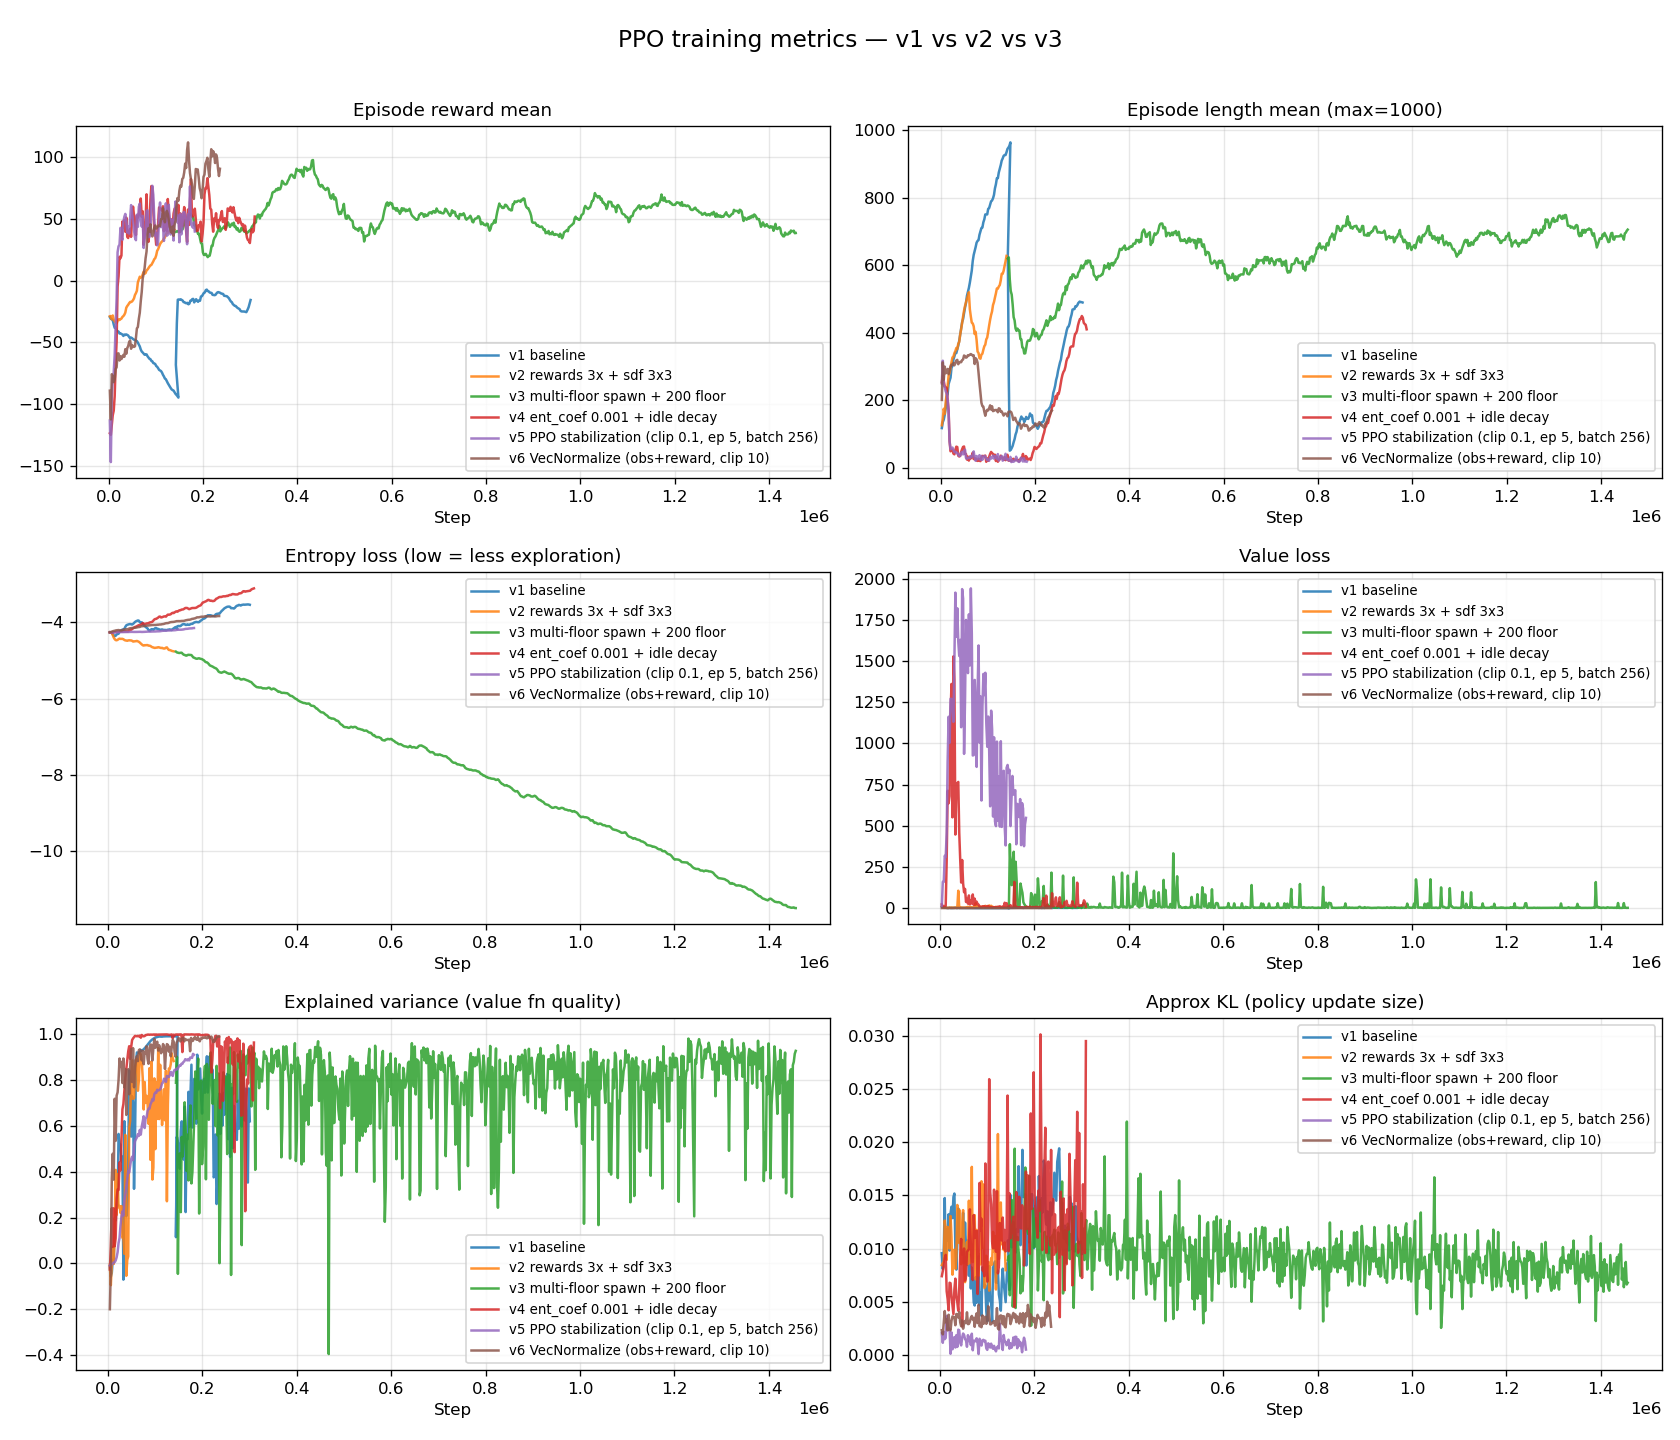
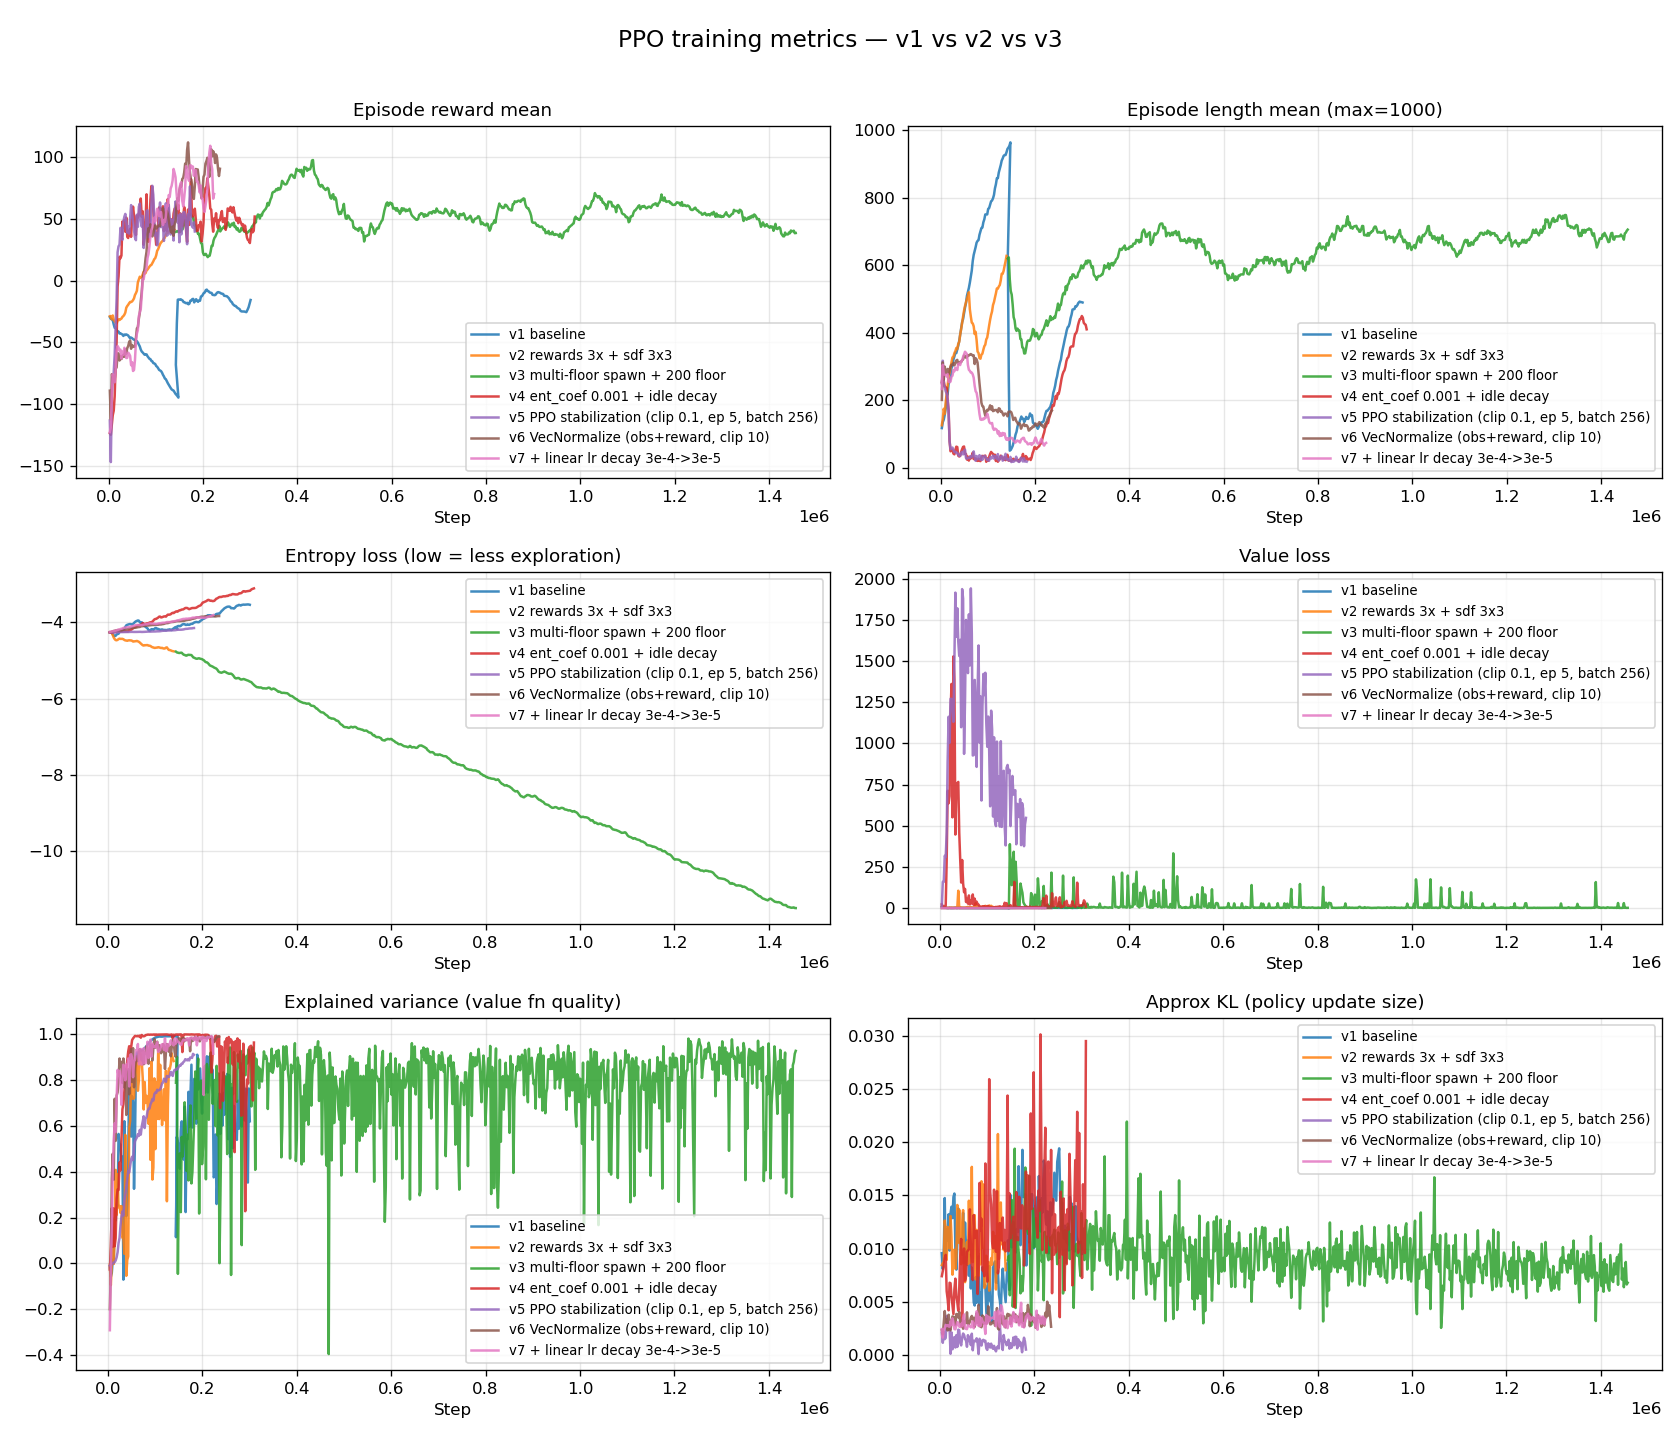
algo/ppo: autonomous loop end — v7 final, summary + recommendations
Loop ran 3 cron iterations (04:36, 06:36, 08:36) and stopped at 08:36
per the user's "past 08:30" cutoff.

* iter 1 (v5->v6, VecNormalize): the breakthrough. Reward avg +45 ->
  +95, smooth curve, peak +110.
* iter 2 (v6->v7, linear lr decay 3e-4->3e-5): marginal — peak ~+105
  preserved a bit better than v6, but no big jump.
* iter 3: hit 08:30 cutoff before doing v7->v8.

v7 stopped at 221k step, ep_rew_mean ~+66 instant / peak ~+105 at 210k.
Best policy across all versions: v6 ppo_drone_220000_steps.zip (peak +110).
VecNormalize stats saved as vec_normalize.pkl in v6 and v7 ckpt dirs —
required for eval to use the same normalization.

PROGRESS.md and fixes.txt have a "morning recommendations" section:
(1) eval the v6 peak checkpoint, (2) resume v7 toward 2M, or (3) try
v8 with bigger network or reduced reward magnitudes.

All 4 PNGs in docs/figures/ updated to include v7. v6 (brown) and v7
(pink) are visibly the only versions to break the v3-v5 ~+45 plateau.

diff --git a/scripts/plot_training.py b/scripts/plot_training.py
@@ -27,6 +27,7 @@ VERSIONS = {
     "v4 ent_coef 0.001 + idle decay": REPO / "runs/ppo_v4_low_ent/tb/PPO_1",
     "v5 PPO stabilization (clip 0.1, ep 5, batch 256)": REPO / "runs/ppo_v5_stable/tb/PPO_1",
     "v6 VecNormalize (obs+reward, clip 10)": REPO / "runs/ppo_v6_normalized/tb/PPO_1",
+    "v7 + linear lr decay 3e-4->3e-5": REPO / "runs/ppo_v7_lrdecay/tb/PPO_1",
 }
 
 METRICS = [

diff --git a/docs/PROGRESS.md b/docs/PROGRESS.md
@@ -494,3 +494,27 @@ olarak kabul eder, her training step'te `progress_remaining` ile çağırır.
 Saat 06:38'de başladı, fresh start. Beklenti: peak v6 seviyesinde veya
 biraz altında ulaşır ama sonrası DÜŞÜŞSÜZ — ya plateau ya da yavaş
 yukarı. lr decay'in tipik faydası "peak'i bozmadan koruma."
+
+### Autonomous loop bitiş (saat 08:36)
+
+Loop durduruldu (saat 08:30 cutoff geçti, CronDelete 25ab885e). Gece
+boyunca 3 cron iterasyonu çalıştı:
+
+- **iter 1 (04:36)**: v5 → v6 (VecNormalize). En etkili müdahale; reward
+  ortalaması +45 → +95'e çıktı, smooth eğri.
+- **iter 2 (06:36)**: v6 → v7 (linear lr decay). Marjinal iyileşme;
+  peak korundu, 220k civarı +90.
+- **iter 3 (08:36)**: stop cutoff, v7 durduruldu (221k step).
+
+v7'nin son hali: 221k step, ep_rew_mean ~+66 (anlık), peak ~+105 (210k).
+v6'ya göre daha smooth ama büyük bir sıçrama yok.
+
+#### Sabah uyandığında — öneriler
+
+1. **Mevcut en iyi policy'yi eval et**: `runs/ppo_v6_normalized/checkpoints/ppo_drone_220000_steps.zip` (v6'nın peak'i). VecNormalize stats:
+   `runs/ppo_v6_normalized/checkpoints/vec_normalize.pkl` — eval script bunu yüklemen lazım.
+2. **v7'yi 2M'e devam ettir**: lr decay zaten orada, devam etmek kolay. resume_from güncelle.
+3. **v8 dene** (eğer eval kötüyse): playbook'taki sonraki adımlar — bigger network [256,256] veya reward magnitude reduction (kat 200→100, oda 50→30).
+
+GitHub'da tüm grafikler güncel: `docs/figures/`. README için "v1→v7
+ablation table" zaten hazır (PROGRESS.md, fixes.txt).
